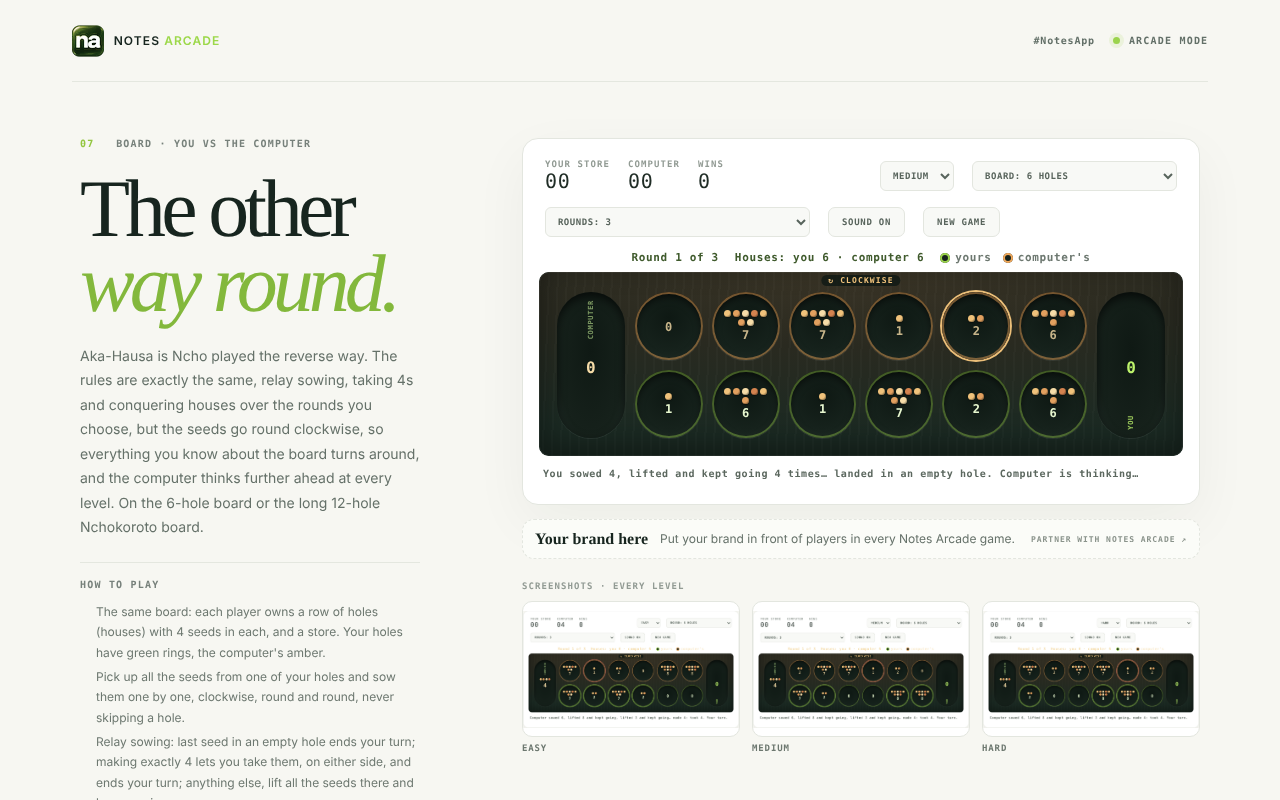
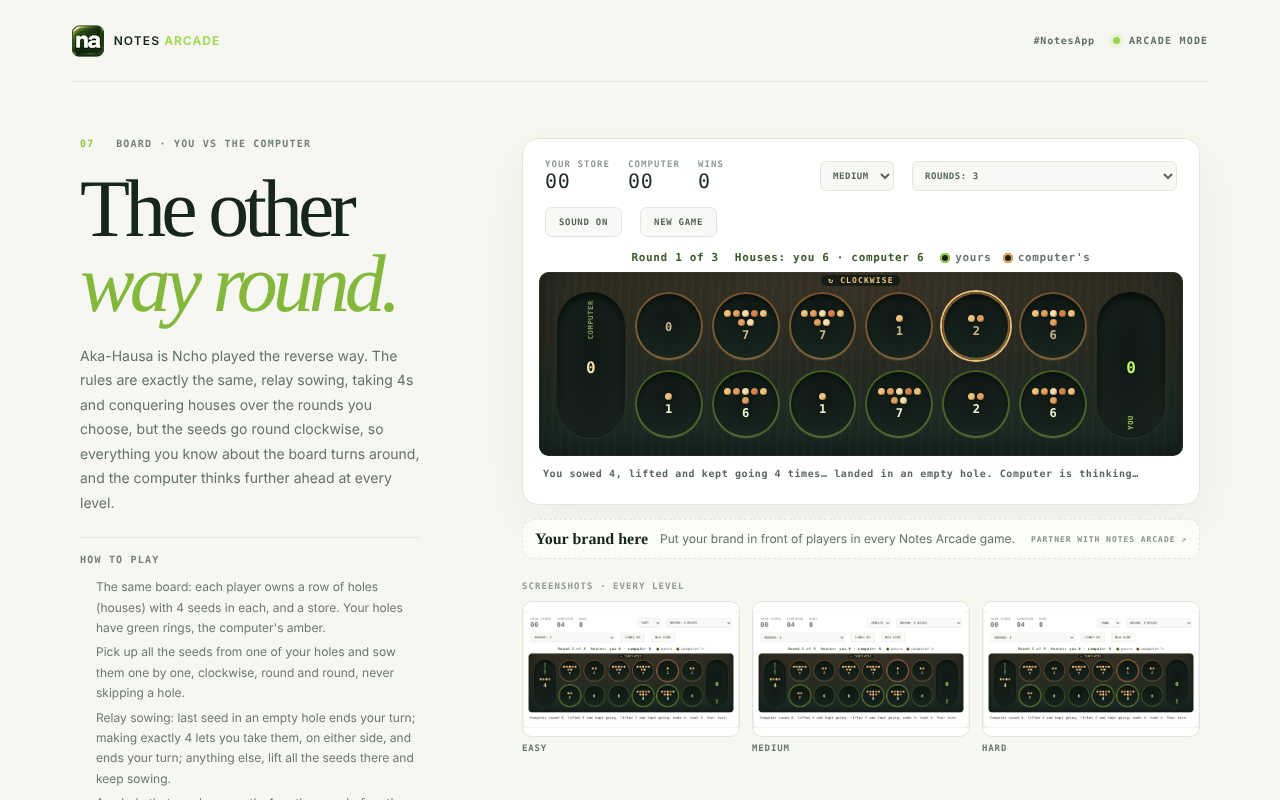
Ncho and Aka-Hausa: 6 holes a side only; the 12-hole board is gone
The owner, 21 Nov 2026: "there's no 12 hole ncho".

Claude-Session: https://claude.ai/code/session_01STQhMwWyavn5g4qzYGwLEX

diff --git a/components/games/NchoGame.tsx b/components/games/NchoGame.tsx
@@ -14,7 +14,6 @@ type View = { pits: number[]; stores: [number, number]; owner: Player[]; active:
 type Frame = { pits: number[]; stores: [number, number]; active: number | null; taken: number[]; tone: number | null };
 
 const STEP_MS = 110; // one seed per step: quick, but you can follow it
-const LONG_STEP_MS = 80; // the 12-hole board has longer sowings
 const MIN_STEP_MS = 28; // relays can be long: the step shortens so a move never drags on
 const MAX_ANIM_MS = 7000;
 const THINK_MS = 550;
@@ -89,14 +88,14 @@ function framesFor(state: NchoState, m: NchoMove): Frame[] {
 }
 
 // variant "akahausa" is Aka-Hausa: exactly the same game sown clockwise, with a computer that looks one move further
-// ahead (lib/arcade/ncho.ts has the rules). The board can be 6 holes a side (standard) or 12 (Nchokoroto), and the game
+// ahead (lib/arcade/ncho.ts has the rules). The board is 6 holes a side (there's no 12-hole Ncho), and the game
 // lasts the number of rounds the player picks. Whoever lost the last game starts the next one (a tie alternates).
 export default function NchoGame({ variant = "ncho" }: { variant?: NchoVariant }) {
   const clockwise = variant === "akahausa";
   const slug = clockwise ? "akahausa" : "ncho";
   const gameName = clockwise ? "Aka-Hausa" : "Ncho";
   const WINS_KEY = WINS_KEYS[variant];
-  const [holesPerSide, setHolesPerSide] = useState<HolesPerSide>(6);
+  const holesPerSide: HolesPerSide = 6; // Ncho is always 6 holes a side
   const [rounds, setRounds] = useState<RoundsTarget>(3);
   const [game, setGame] = useState<NchoState>(() => initialState(undefined, 0, variant));
   const [view, setView] = useState<View>(() => viewOf(initialState(undefined, 0, variant)));
@@ -115,7 +114,6 @@ export default function NchoGame({ variant = "ncho" }: { variant?: NchoVariant }
   const timers = useRef<number[]>([]);
   const audioRef = useRef<AudioContext | null>(null);
   const mutedRef = useRef(false);
-  const long = game.holesPerSide === 12;
 
   useEffect(() => {
     try { setWins(Number(arcadeStore.getItem(WINS_KEY)) || 0); } catch { /* storage blocked: start from 0 */ }
@@ -192,7 +190,7 @@ export default function NchoGame({ variant = "ncho" }: { variant?: NchoVariant }
     if (prefersReducedMotion()) { finishMove(next); return; }
     setBusy(true);
     const frames = framesFor(state, m);
-    const base = state.holesPerSide === 12 ? LONG_STEP_MS : STEP_MS;
+    const base = STEP_MS;
     const step = Math.max(MIN_STEP_MS, Math.min(base, Math.floor(MAX_ANIM_MS / Math.max(1, frames.length))));
     frames.forEach((f, i) => {
       later(() => {
@@ -229,7 +227,6 @@ export default function NchoGame({ variant = "ncho" }: { variant?: NchoVariant }
     setStatus(game.turn === 0 ? `Round ${game.round}: you start. Pick one of your holes.` : `Round ${game.round}: the computer starts. Computer is thinking…`);
   };
 
-  const changeSize = (v: string) => { const n: HolesPerSide = v === "12" ? 12 : 6; setHolesPerSide(n); start({ holesPerSide: n }); };
   const changeRounds = (v: string) => {
     const t: RoundsTarget = v === "all" ? "all" : v === "5" ? 5 : v === "7" ? 7 : 3;
     setRounds(t);
@@ -241,7 +238,7 @@ export default function NchoGame({ variant = "ncho" }: { variant?: NchoVariant }
   const canPlay = phase === "playing" && !busy && game.turn === 0 && !game.over;
   const legal = canPlay ? legalMoves(game) : [];
   const { top, bottom } = rowsFor(game.holesPerSide);
-  const seedMax = long ? 8 : 14;
+  const seedMax = 14;
   const houses: [number, number] = [housesOf(view.owner, 0), housesOf(view.owner, 1)];
   const roundNo = game.lastRound && phase !== "playing" ? game.lastRound.round : game.round;
 
@@ -290,7 +287,7 @@ export default function NchoGame({ variant = "ncho" }: { variant?: NchoVariant }
   const nextLine = nextFirst === 0
     ? game.winner === "draw" ? "A tie, so you start the next game." : "You lost, so you start the next game."
     : game.winner === "draw" ? "A tie, so the computer starts the next game." : "The computer lost, so it starts the next game.";
-  const readyKicker = `${clockwise ? "AKA-HAUSA · SOWN CLOCKWISE" : "SOWN ANTICLOCKWISE"} · ${long ? "TWELVE" : "SIX"} HOLES EACH`;
+  const readyKicker = `${clockwise ? "AKA-HAUSA · SOWN CLOCKWISE" : "SOWN ANTICLOCKWISE"} · SIX HOLES EACH`;
   const showRotate = portraitPhone && !rotateDismissed;
 
   return (
@@ -305,10 +302,6 @@ export default function NchoGame({ variant = "ncho" }: { variant?: NchoVariant }
             <option value="easy">EASY</option>
             <option value="medium">MEDIUM</option>
             <option value="hard">HARD</option>
-          </select>
-          <select className="arc-select" aria-label="Board size (starts a new game)" value={String(holesPerSide)} onChange={(e) => changeSize(e.target.value)}>
-            <option value="6">BOARD: 6 HOLES</option>
-            <option value="12">BOARD: 12 HOLES (NCHOKOROTO)</option>
           </select>
           <select className="arc-select" aria-label="Rounds (starts a new game)" value={String(rounds)} onChange={(e) => changeRounds(e.target.value)}>
             <option value="3">ROUNDS: 3</option>
@@ -339,16 +332,16 @@ export default function NchoGame({ variant = "ncho" }: { variant?: NchoVariant }
         </p>
 
         <div className="arc-board-wrap ncho-wrap">
-          <div className={`ncho-board${long ? " ncho-long" : ""}`} style={{ ["--ncho-n" as string]: game.holesPerSide }}
+          <div className="ncho-board" style={{ ["--ncho-n" as string]: game.holesPerSide }}
             aria-label={`${gameName} board, ${game.holesPerSide} holes a side. Green-ringed holes are yours, amber-ringed are the computer's; your store is on the right; seeds move ${clockwise ? "clockwise" : "anticlockwise"}.`}>
             <span className="ncho-dir" aria-hidden="true">{clockwise ? "↻ CLOCKWISE" : "↺ ANTICLOCKWISE"}</span>
             <div className="ncho-store ncho-store-them" role="img" aria-label={`Computer's store, ${view.stores[1]} seeds`}>
-              <span className="ncho-store-label">COMPUTER</span><Seeds n={view.stores[1]} max={long ? 24 : 30} /><b>{view.stores[1]}</b>
+              <span className="ncho-store-label">COMPUTER</span><Seeds n={view.stores[1]} max={30} /><b>{view.stores[1]}</b>
             </div>
             <div className="ncho-row ncho-top">{top.map((h) => hole(h))}</div>
             <div className="ncho-row ncho-bottom">{bottom.map((h) => hole(h))}</div>
             <div className="ncho-store ncho-store-you" role="img" aria-label={`Your store, ${view.stores[0]} seeds`}>
-              <span className="ncho-store-label">YOU</span><Seeds n={view.stores[0]} max={long ? 24 : 30} /><b>{view.stores[0]}</b>
+              <span className="ncho-store-label">YOU</span><Seeds n={view.stores[0]} max={30} /><b>{view.stores[0]}</b>
             </div>
           </div>
           {phase !== "playing" && (
@@ -429,28 +422,14 @@ export default function NchoGame({ variant = "ncho" }: { variant?: NchoVariant }
         .ncho-seeds { display:flex; flex-wrap:wrap; justify-content:center; gap:2px; max-width:78%; }
         .ncho-seeds i { display:block; width:clamp(4px,1.1vw,7px); height:clamp(4px,1.1vw,7px); border-radius:50%; box-shadow:inset -1px -1px 0 #0004,0 1px 1px #0006; }
         .ncho-final { color:#f6dca8 !important; font:600 12px ui-monospace,monospace; letter-spacing:.04em; }
-        /* Nchokoroto: twelve holes a row. Narrower stores, tighter gaps; the holes shrink and the seed dots go when they're tiny. */
-        .ncho-long { grid-template-columns:minmax(0,1fr) minmax(0,12fr) minmax(0,1fr); gap:clamp(3px,.9vw,8px); }
-        .ncho-long .ncho-row { gap:clamp(2px,.55vw,6px); }
-        .ncho-long .ncho-hole { padding:2px; gap:2px; }
-        .ncho-long .ncho-hole b { font-size:clamp(8px,1.5vw,11px); }
-        .ncho-long .ncho-seeds { gap:1px; max-width:84%; }
-        .ncho-long .ncho-seeds i { width:clamp(3px,.75vw,6px); height:clamp(3px,.75vw,6px); }
-        .ncho-long .ncho-store { padding:10px 2px; }
-        .ncho-long .ncho-store-label { display:none; } /* the pots are short here; the score row names them */
-        @media(max-width:520px) and (orientation:portrait) { .ncho-long .ncho-hole .ncho-seeds { display:none; } }
-        @media(max-width:420px) { .ncho-store-label { display:none; } .ncho-store { padding:8px 2px; } .ncho-long .ncho-store { padding:6px 1px; } .ncho-long { padding:14px 6px 6px; } .ncho-long .ncho-store .ncho-seeds { display:none; } }
+        @media(max-width:420px) { .ncho-store-label { display:none; } .ncho-store { padding:8px 2px; } }
         /* Phones turned sideways: use the full width, slimmer stores and gutters so the holes come out bigger. */
         @media(orientation:landscape) and (max-height:520px) {
           .ncho-wrap { padding-left:0; padding-right:0; }
           .ncho-board { grid-template-columns:minmax(0,.7fr) minmax(0,7fr) minmax(0,.7fr); gap:8px; padding:16px 8px 8px; }
-          .ncho-long { grid-template-columns:minmax(0,.8fr) minmax(0,13fr) minmax(0,.8fr); gap:5px; padding:16px 6px 6px; }
           .ncho-row { gap:8px; }
-          .ncho-long .ncho-row { gap:4px; }
           .ncho-hole b { font-size:13px; }
-          .ncho-long .ncho-hole b { font-size:11px; }
           .ncho-seeds i { width:7px; height:7px; }
-          .ncho-long .ncho-seeds i { width:4px; height:4px; }
           .ncho-store-label { display:none; }
           .ncho-info { margin-bottom:6px; }
         }

diff --git a/tests/arcade/ncho.test.ts b/tests/arcade/ncho.test.ts
@@ -1,9 +1,9 @@
 // Ncho (lib/arcade/ncho.ts), the owner's rules of 21 Nov 2026: owned holes, relay sowing, the mover's last-seed 4, 4s made on the way going to the hole's owner,
-// rounds with counting, refilling and conquered houses, the end of the game, and computer play on both board sizes.
+// rounds with counting, refilling and conquered houses, the end of the game, and computer play. Ncho is 6 holes a side only (the owner: "there's no 12 hole ncho").
 // Run: npx -y tsx tests/arcade/ncho.test.ts
 import assert from "node:assert/strict";
 import {
-  AKAHAUSA_DEPTH, LEVEL_DEPTH, LONG_BOARD_DEPTH, MAX_SOWINGS, applyMove, chooseMove, depthFor, endRound, holeCount,
+  AKAHAUSA_DEPTH, LEVEL_DEPTH, MAX_SOWINGS, applyMove, chooseMove, depthFor, endRound, holeCount,
   housesOf, initialState, legalMoves, moveCap, seededRng, sow, startingOwner, totalSeeds,
   type HolesPerSide, type Level, type NchoState, type NchoVariant, type Player, type RoundsTarget,
 } from "../../lib/arcade/ncho";
@@ -33,20 +33,13 @@ ok("standard board: 12 holes of 4 (48 seeds), each owns their row, empty stores,
   assert.deepEqual(legalMoves(s), [0, 1, 2, 3, 4, 5]);
   assert.equal("chain" in s, false, "the old chain option is gone");
 });
-ok("Nchokoroto board: 24 holes of 4 (96 seeds); rounds and first player honoured", () => {
-  const s = initialState(undefined, 1, "akahausa", { holesPerSide: 12, rounds: "all" });
-  assert.equal(s.holesPerSide, 12);
-  assert.equal(holeCount(12), 24);
-  assert.deepEqual(s.pits, Array(24).fill(4));
-  assert.deepEqual(s.owner, startingOwner(12));
-  assert.equal(housesOf(s.owner, 0), 12);
-  assert.equal(sum(s), 96);
-  assert.equal(totalSeeds(12), 96);
+ok("there's no 12-hole Ncho: every game is 6 holes a side, 48 seeds", () => {
+  const s = initialState(undefined, 1, "akahausa", { rounds: "all" });
+  assert.equal(s.holesPerSide, 6);
+  assert.equal(holeCount(s.holesPerSide), 12);
+  assert.equal(totalSeeds(s.holesPerSide), 48);
   assert.equal(s.turn, 1);
   assert.equal(s.roundStarter, 1);
-  assert.equal(s.roundsTarget, "all");
-  assert.deepEqual(legalMoves(s), [12, 13, 14, 15, 16, 17, 18, 19, 20, 21, 22, 23]);
-  assert.equal(initialState(undefined, 0, "ncho", { rounds: 7 }).roundsTarget, 7);
 });
 
 // --- Legal moves ---
@@ -203,10 +196,9 @@ ok("both variants mirror each other: Ncho anticlockwise, Aka-Hausa clockwise", (
   assert.deepEqual(a.last?.sowings[0].path, [4, 5, 6, 7]);
   const c = applyMove(initialState(undefined, 0, "akahausa"), 3);
   assert.deepEqual(c.last?.sowings[0].path, [2, 1, 0, 11]);
-  assert.deepEqual(applyMove(initialState(undefined, 0, "akahausa", { holesPerSide: 12 }), 0).last?.sowings[0].path, [23, 22, 21, 20]);
   // Reflect the board left-right (keeps each row): every Ncho move matches its mirrored Aka-Hausa move hole for hole.
   const rng = seededRng(11);
-  for (const half of [6, 12]) {
+  for (const half of [6]) {
     const n = half * 2;
     const m = (h: number) => (half - 1 - h + n) % n;
     for (let i = 0; i < 300; i++) {
@@ -253,7 +245,6 @@ ok("a round ends when the player to move has no seeds in holes they own; count, 
 });
 ok("the move cap ends the round as if the player to move couldn't play", () => {
   assert.equal(moveCap(6), 400);
-  assert.equal(moveCap(12), 800);
   const s = applyMove(at([1, 0, 0, 0, 0, 0, 4, 4, 4, 4, 4, 0], { stores: [15, 12], roundMoves: 399 }), 0);
   assert.equal(s.lastRound?.reason, "move-cap");
   assert.equal(s.round, 2);
@@ -321,17 +312,11 @@ ok("endRound: the leftover hole goes to the larger remainder, 2-2 to the player 
   assert.deepEqual(e.leftover, { hole: 11, to: 0, seeds: 4 });
   assert.deepEqual(e.conquered, [{ hole: 11, from: 1, to: 0 }]);
   assert.deepEqual(e.houses, [7, 5]);
-  // On 12 holes: 30 + 66 → you fill 7 with 2 over, it fills 16 with 2 over; 5 of your holes go, the last of them
-  // to whoever didn't start.
-  const f = endRound(zeros(24), startingOwner(12), [30, 66], 1);
-  assert.deepEqual(f.leftover, { hole: 11, to: 0, seeds: 4 });
-  assert.deepEqual(f.houses, [8, 16]);
-  assert.equal(sum(f), 96);
 });
-ok("endRound conserves seeds (48 / 96) and fills every hole with 4, whatever the position", () => {
+ok("endRound conserves seeds (48) and fills every hole with 4, whatever the position", () => {
   const rng = seededRng(3);
   for (let i = 0; i < 2000; i++) {
-    const half = i % 2 ? 6 : 12;
+    const half = 6;
     const n = half * 2;
     const total = n * 4;
     const pits = zeros(n);
@@ -407,8 +392,6 @@ ok("depths: Aka-Hausa one deeper; the long board capped", () => {
     assert.equal(AKAHAUSA_DEPTH[level], LEVEL_DEPTH[level] + 1);
     assert.equal(depthFor("ncho", level), LEVEL_DEPTH[level]);
     assert.equal(depthFor("akahausa", level), AKAHAUSA_DEPTH[level]);
-    assert.equal(depthFor("ncho", level, 12), LONG_BOARD_DEPTH[level]);
-    assert.equal(depthFor("akahausa", level, 12), LONG_BOARD_DEPTH[level] + 1);
   }
 });
 ok("the computer takes an obvious 4", () => {
@@ -470,7 +453,7 @@ function playOut(holesPerSide: HolesPerSide, variant: NchoVariant, rounds: Round
   return { slowest, plies: s.plies, rounds: roundsSeen, reason: s.endReason, houses: `${a}-${b}` };
 }
 
-for (const holesPerSide of [6, 12] as const) {
+for (const holesPerSide of [6] as const) {
   for (const variant of ["ncho", "akahausa"] as const) {
     for (const rounds of [3, "all"] as const) {
       ok(`computer v computer: ${holesPerSide} holes, ${variant}, rounds ${rounds}`, () => {
@@ -487,16 +470,10 @@ for (const holesPerSide of [6, 12] as const) {
   }
 }
 
-ok("hard moves stay under 300ms on 12 holes (both variants)", () => {
-  let slowest = 0;
-  for (const variant of ["ncho", "akahausa"] as const) {
-    const r = playOut(12, variant, 3, 99, ["hard"]);
-    slowest = Math.max(slowest, r.slowest);
-  }
-  const six = Math.max(playOut(6, "akahausa", 3, 98, ["hard"]).slowest, playOut(6, "ncho", 3, 97, ["hard"]).slowest);
-  console.log(`        slowest hard move: ${slowest.toFixed(1)}ms on 12 holes, ${six.toFixed(1)}ms on 6 holes`);
+ok("hard moves stay under 300ms (both variants)", () => {
+  const slowest = Math.max(playOut(6, "akahausa", 3, 98, ["hard"]).slowest, playOut(6, "ncho", 3, 97, ["hard"]).slowest);
+  console.log(`        slowest hard move: ${slowest.toFixed(1)}ms`);
   assert.ok(slowest < 300, `slowest move ${slowest.toFixed(0)}ms`);
-  assert.ok(six < 300, `slowest 6-hole move ${six.toFixed(0)}ms`);
 });
 
 console.log(`ncho: all ${checks} tests passed`);

diff --git a/lib/arcade/catalogue.ts b/lib/arcade/catalogue.ts
@@ -64,7 +64,7 @@ export const ARCADE_GAMES: ArcadeGame[] = [
   {
     slug: "ncho", path: "/arcade/ncho", name: "Ncho", kicker: "Board", headline: ["Sow", "and gather."],
     blurb: "The Igbo seed game: relay-sow, make 4, conquer houses.",
-    description: "Ncho (also Nchokoto or Nchokoroto, by dialect) is Igbo mancala, cousin of Ayo and Oware. Sow seeds round the board, keep going from wherever your last seed lands, take the 4s you make, and win your opponent's holes (houses) over a number of rounds you choose. Play the standard 6-hole board or the long 12-hole Nchokoroto board.",
+    description: "Ncho (also Nchokoto or Nchokoroto, by dialect) is Igbo mancala, cousin of Ayo and Oware. Sow seeds round the board, keep going from wherever your last seed lands, take the 4s you make, and win your opponent's holes (houses) over a number of rounds you choose. Played on a board of two rows of 6 holes.",
     howTo: ["Each player owns the holes (houses) on their row, 4 seeds in each, and has a store for captured seeds. Your holes have green rings, the computer's amber.", "Pick up all the seeds from one of your holes and sow them one by one, anticlockwise, round and round. No hole is skipped and seeds never go in a store.", "Relay sowing: if your last seed lands in an empty hole, your turn ends. If it makes exactly 4, you take those 4, on either side, and your turn ends. Otherwise lift all the seeds from that hole and keep sowing.", "Any hole that reaches exactly 4 on the way, before the last seed, goes straight to that hole's owner, whoever is sowing.", "A round ends when the player to move has no seeds in their holes. Each of you adds the seeds in your holes to your store, then refills your holes with 4 each. A hole you can't fill is conquered by your opponent, and conquered holes are theirs to play next round.", "Choose 3, 5 or 7 rounds, or play until one side has every house. Most houses wins, and the loser of each round starts the next."],
     players: "You vs the computer",
     shots: LEVELS,
@@ -72,7 +72,7 @@ export const ARCADE_GAMES: ArcadeGame[] = [
   {
     slug: "akahausa", path: "/arcade/akahausa", name: "Ncho Aka-Hausa", kicker: "Board", headline: ["The other", "way round."],
     blurb: "Ncho the other way round: relay-sow clockwise against a sharper computer.",
-    description: "Aka-Hausa is Ncho played the reverse way. The rules are exactly the same, relay sowing, taking 4s and conquering houses over the rounds you choose, but the seeds go round clockwise, so everything you know about the board turns around, and the computer thinks further ahead at every level. On the 6-hole board or the long 12-hole Nchokoroto board.",
+    description: "Aka-Hausa is Ncho played the reverse way. The rules are exactly the same, relay sowing, taking 4s and conquering houses over the rounds you choose, but the seeds go round clockwise, so everything you know about the board turns around, and the computer thinks further ahead at every level.",
     howTo: ["The same board: each player owns a row of holes (houses) with 4 seeds in each, and a store. Your holes have green rings, the computer's amber.", "Pick up all the seeds from one of your holes and sow them one by one, clockwise, round and round, never skipping a hole.", "Relay sowing: last seed in an empty hole ends your turn; making exactly 4 lets you take them, on either side, and ends your turn; anything else, lift all the seeds there and keep sowing.", "Any hole that reaches exactly 4 on the way, before the last seed, goes straight to that hole's owner.", "When the player to move has no seeds in their holes, the round ends: count your seeds, refill your holes with 4 each, and any hole you can't fill is conquered by your opponent.", "Choose 3, 5 or 7 rounds, or play until one side has every house. Most houses wins, and the loser of each round starts the next."],
     players: "You vs the computer",
     shots: LEVELS,

diff --git a/lib/arcade/ncho.ts b/lib/arcade/ncho.ts
@@ -2,8 +2,8 @@
 // or DOM, so tests and the UI share one set of rules.
 //
 // The board: two rows of holes ("houses"), one row per player, and a store for each player's captured seeds.
-//   Standard Ncho: 6 holes a side (12 holes). Nchokoroto / Ncho Ncho Kororo: 12 holes a side (24 holes). Same rules.
-//   Four seeds in every hole at the start (48 or 96 seeds, and that total never changes).
+//   Ncho is played on 6 holes a side, 12 holes in all (the owner, 21 Nov 2026: "there's no 12 hole ncho").
+//   Four seeds in every hole at the start: 48 seeds, and that total never changes.
 // Indexes: holes 0..n-1 are the bottom row (you, left to right); holes n..2n-1 are the top row (the computer, right to
 // left). Going up the indexes is anticlockwise round the board as drawn.
 //
@@ -40,11 +40,11 @@
 export type Player = 0 | 1;
 export type Level = "easy" | "medium" | "hard";
 export type NchoVariant = "ncho" | "akahausa";
-export type HolesPerSide = 6 | 12;
+export type HolesPerSide = 6;
 export type RoundsTarget = 3 | 5 | 7 | "all";
 
 export type NchoOptions = {
-  holesPerSide?: HolesPerSide; // 6 = standard Ncho, 12 = Nchokoroto
+  holesPerSide?: HolesPerSide; // always 6
   rounds?: RoundsTarget; // how many rounds the game lasts; "all" = until one side has every house (default 3)
 };
 
@@ -115,7 +115,7 @@ export const CAPTURE_AT = 4;
 // Relay cap: at most this many laps of sowing in one turn; when it's hit the turn simply ends.
 export const MAX_SOWINGS = 300;
 // Move cap per round: when it's hit the round ends as if the player to move couldn't play.
-export const moveCap = (holesPerSide: number) => (holesPerSide >= 12 ? 800 : 400);
+export const moveCap = (_holesPerSide: number) => 400;
 // Round cap for "until one side has every house": the game is decided on houses after this many rounds.
 export const MAX_ROUNDS = 50;
 export const ROUND_OPTIONS: RoundsTarget[] = [3, 5, 7, "all"];
@@ -149,7 +149,7 @@ export const directionOf = (variant: NchoVariant): 1 | -1 => (variant === "akaha
 
 // The rng is accepted so every arcade game shares one signature; Ncho's start is fixed.
 export function initialState(_rng?: () => number, first: Player = 0, variant: NchoVariant = "ncho", options: NchoOptions = {}): NchoState {
-  const holesPerSide: HolesPerSide = options.holesPerSide === 12 ? 12 : 6;
+  const holesPerSide: HolesPerSide = 6;
   const r = options.rounds;
   const roundsTarget: number | "all" = r === "all" ? "all" : r === 5 || r === 7 ? r : 3;
   return {
@@ -345,9 +345,8 @@ export const LEVEL_DEPTH: Record<Level, number> = { easy: 2, medium: 4, hard: 6 
 export const AKAHAUSA_DEPTH: Record<Level, number> = { easy: 3, medium: 5, hard: 7 };
 // Relays make moves long, and the 12-hole board has twice the choices, so the search there is capped to keep a hard
 // move well under 300ms (the tests measure it). Aka-Hausa still gets its extra move on top of these.
-export const LONG_BOARD_DEPTH: Record<Level, number> = { easy: 2, medium: 3, hard: 5 };
 export const depthFor = (variant: NchoVariant, level: Level, holesPerSide: number = 6) => {
-  const base = holesPerSide >= 12 ? LONG_BOARD_DEPTH[level] : LEVEL_DEPTH[level];
+  const base = LEVEL_DEPTH[level];
   return base + (variant === "akahausa" ? 1 : 0);
 };
 

diff --git a/lib/changelog.ts b/lib/changelog.ts
@@ -17,6 +17,7 @@ export const CHANGELOG: Release[] = [
     changes: [
       { kind: "fixed", text: "Ncho and Ncho Aka-Hausa now play the owner's full rules: relay sowing (lift and keep going until your last seed lands in an empty hole or makes 4), a 4 made with your last seed is yours, any 4 made along the way goes straight to that hole's owner, and rounds where each player refills their houses with 4s and loses the ones they can't fill. Choose 3, 5 or 7 rounds, or play until one side has every house; more houses wins. Aka-Hausa is the same, sown clockwise." },
       { kind: "added", text: "On a phone held upright, Ncho and Aka-Hausa suggest turning it sideways, where the holes are bigger." },
+      { kind: "changed", text: "Ncho and Aka-Hausa are played on 6 holes a side only: the 12-hole board is gone, because there's no 12-hole Ncho." },
     ],
   },
   {

diff --git a/HANDOVER.md b/HANDOVER.md
@@ -1267,8 +1267,9 @@ All of these are on the team hub board with departments and dates (`lib/team-see
     empty hole ends the turn, making exactly 4 lets the mover take it, otherwise lift and keep sowing (either side; 300-lap cap). A 4 made
     mid-sowing goes at once to that hole's owner. A round ends when the mover owns no seeds: each takes the seeds in their holes, refills
     their holes with 4s from first hole of their row onwards; holes they can't fill are conquered; the one leftover hole goes to the bigger
-    remainder (tie: the player who didn't start). Rounds 3/5/7/"all" (all capped at 50); more houses wins. `endRound` in `lib/arcade/ncho.ts`.
-    The chain option is gone. Portrait phones get a "turn sideways" prompt. Aka-Hausa: the same, clockwise.
+    remainder (tie: the player who didn't start). Rounds 3/5/7/"all" (all capped at 50); more houses wins. 6 holes a side only. `endRound` in `lib/arcade/ncho.ts`.
+    The chain option is gone, and so is the 12-hole board (owner: "there's no 12 hole ncho"; `HolesPerSide = 6`). Portrait phones get a
+    "turn sideways" prompt. Aka-Hausa: the same, clockwise.
 
 ## 3. How the work is done (please keep these)
 
